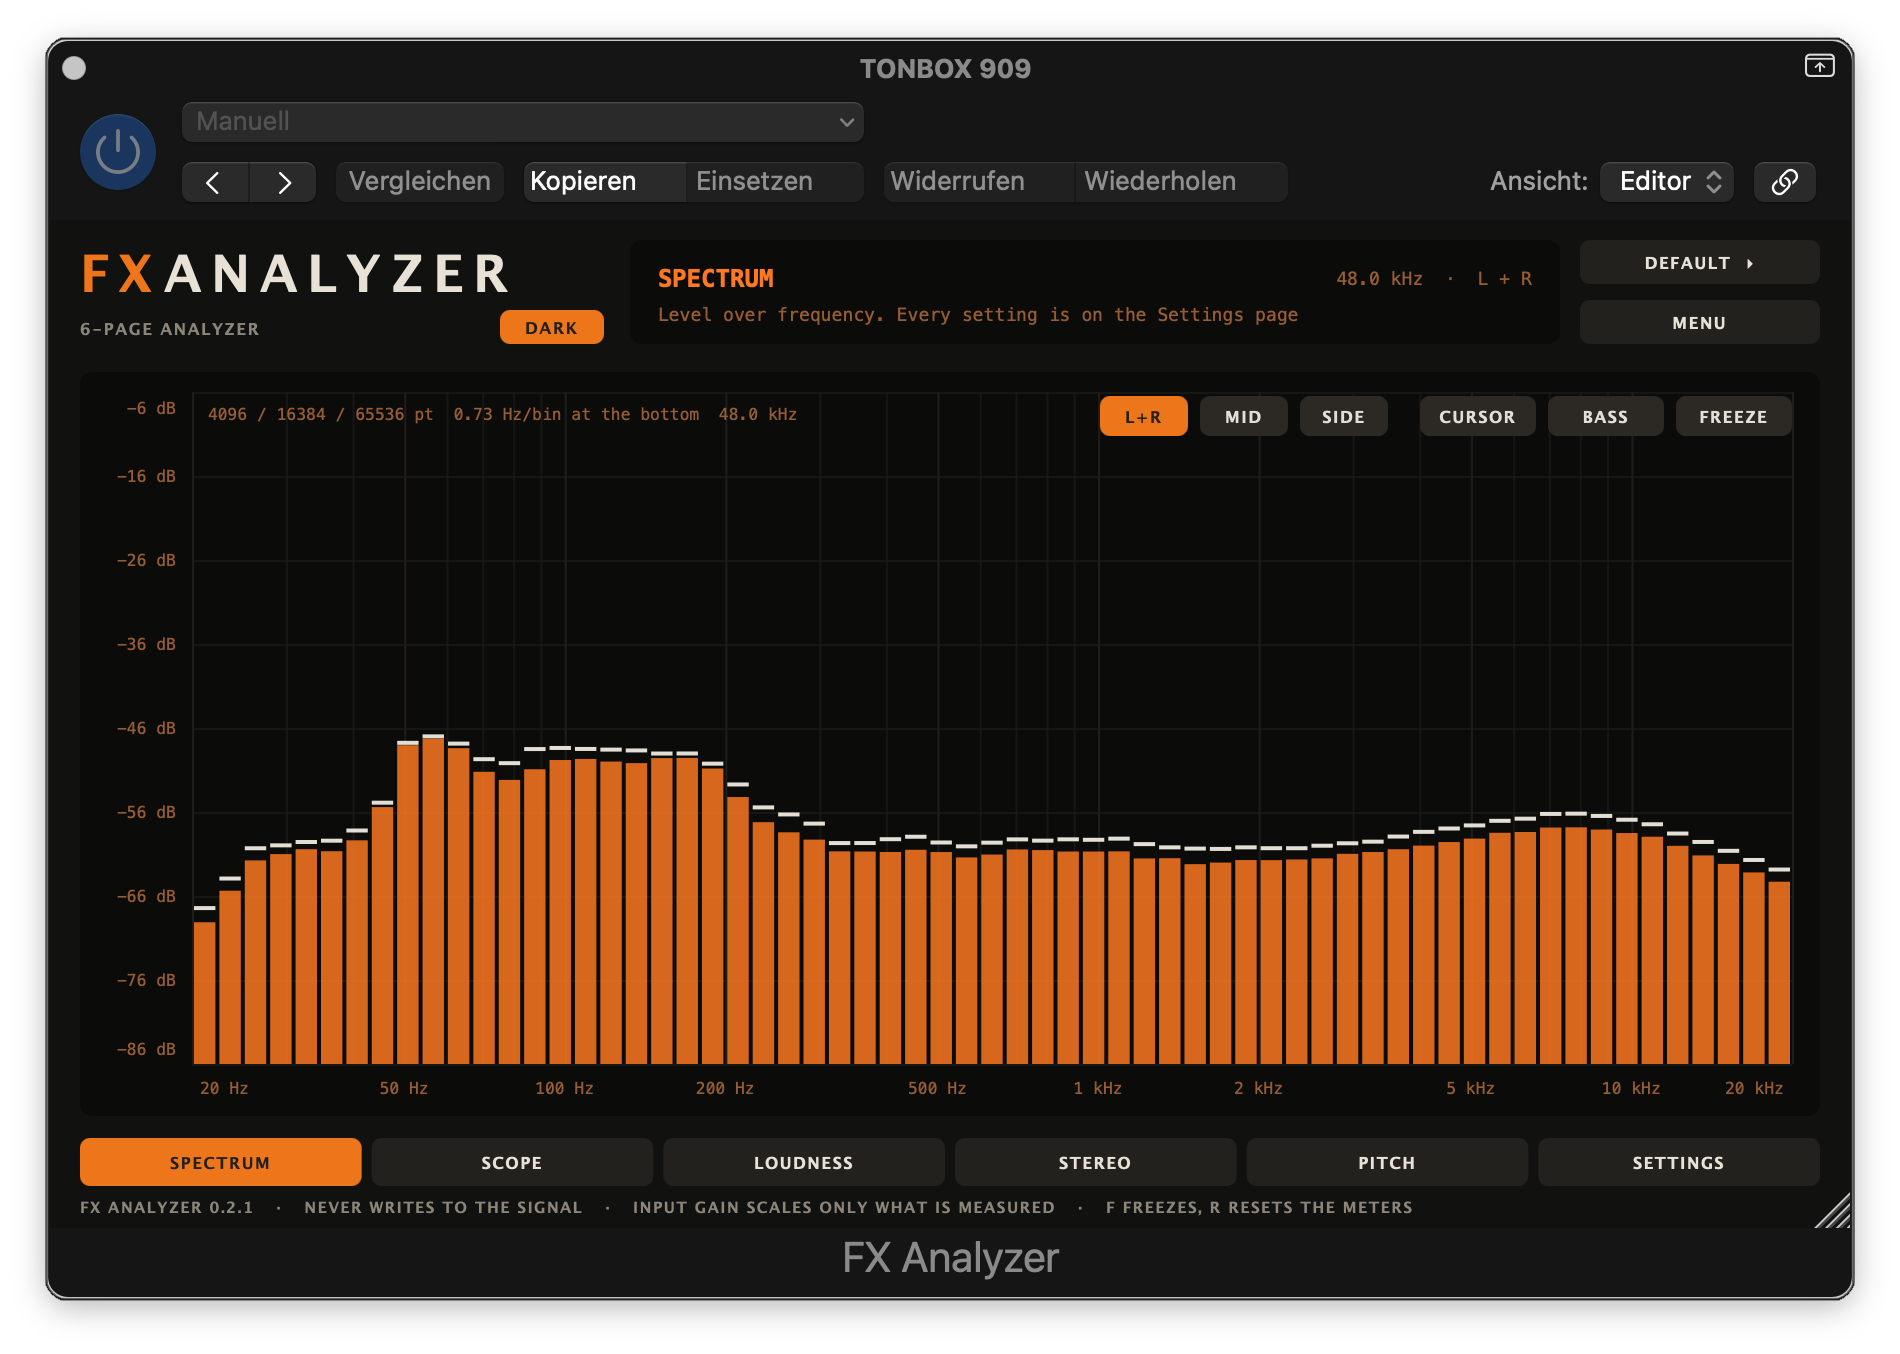
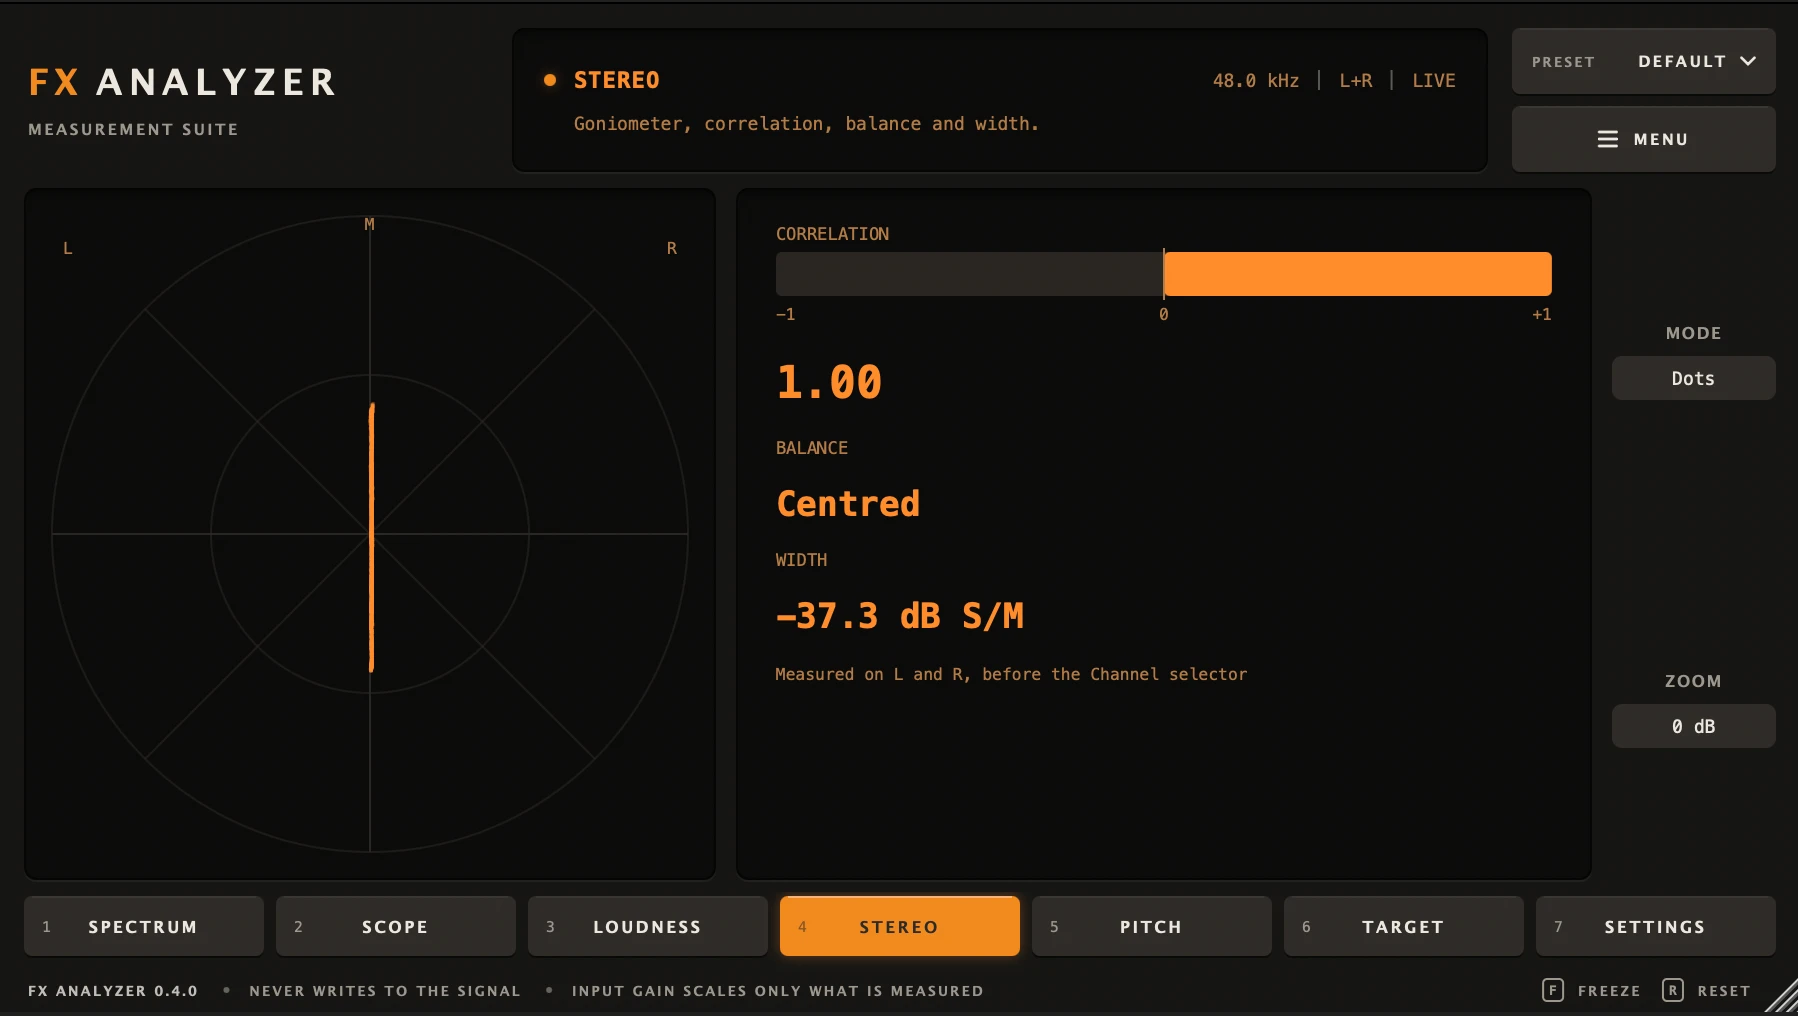
README screenshots: the 0.4.0 panel in all four colours
Red on the light panel with the Target page, Orange dark with Stereo,
and Mint and Blue dark with the spectrum as bars and as a curve. The
intro names the target curve.

diff --git a/README.md b/README.md
@@ -1,12 +1,14 @@
 # FX Analyzer
 
-A measurement plugin for macOS: spectrum, oscilloscope, loudness, stereo field
-and pitch, on one panel behind one set of controls. Audio Unit, VST3 and
+A measurement plugin for macOS: spectrum, oscilloscope, loudness, stereo field,
+pitch and a target curve, on one panel behind one set of controls. Audio Unit, VST3 and
 Standalone.
 
-<img src="screenshot.png" width="700" alt="FX Analyzer in Logic Pro">
+<img src="screenshot.png" width="700" alt="FX Analyzer 0.4 in Red on the light panel, showing the Target page: the deviation from Clearbox's 4.5 dB/oct curve with one value per octave">
 
-<img src="screenshot-dark.png" width="700" alt="FX Analyzer in Logic Pro with the dark panel">
+<img src="screenshot-dark.png" width="700" alt="FX Analyzer 0.4 in Orange on the dark panel, showing the Stereo page">
+
+<img src="screenshot-mint.png" width="345" alt="FX Analyzer 0.4 in Mint on the dark panel: the spectrum as bars"> <img src="screenshot-blue.png" width="345" alt="FX Analyzer 0.4 in Blue on the dark panel: the spectrum as a curve">
 
 **MENU > Colour** picks the panel's colours - Orange, Blue, Mint or Red - and
 **MENU > Dark Panel** switches each of them between light and dark. The choice
